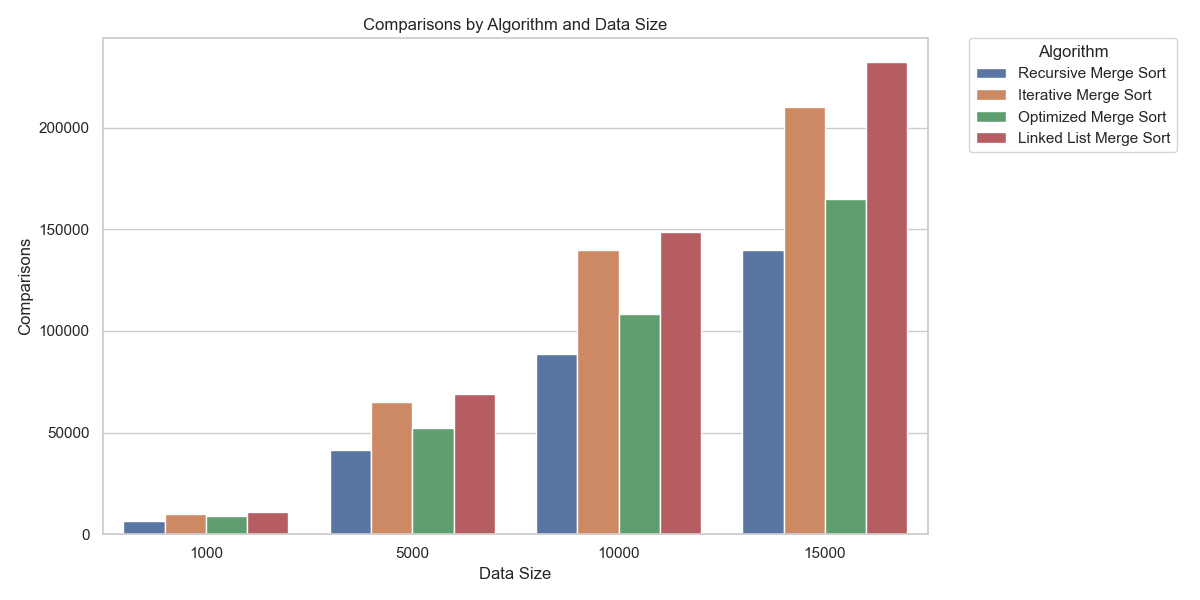
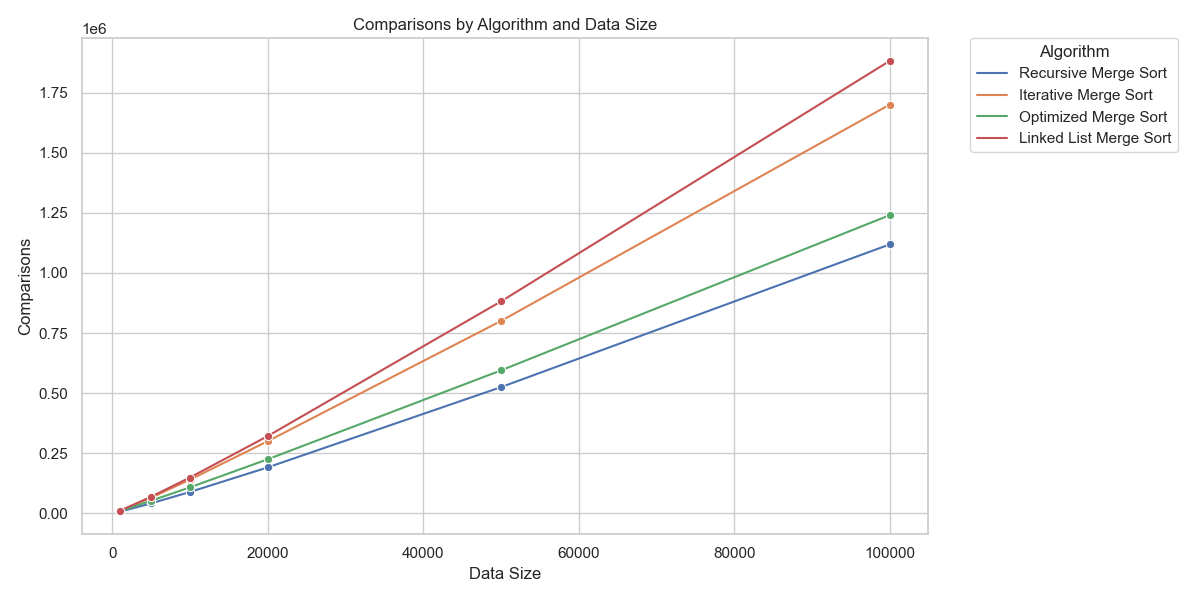
lab6: some changes to improve analysis results (done)

diff --git a/lab_6/main.py b/lab_6/main.py
@@ -10,7 +10,7 @@ def main():
     import time
     import tracemalloc
 
-    data_sizes = [1000, 5000, 10000, 15000]
+    data_sizes = [1000, 5000, 10000, 20000, 50000, 100000]
     data_types = ['random', 'sorted', 'reverse', 'nearly_sorted', 'few_unique']
     sorting_algorithms = {
         'Recursive Merge Sort': merge_sort_recursive,
@@ -39,6 +39,7 @@ def main():
             for algo_name, algo_func in sorting_algorithms.items():
                 metrics = PerformanceMetrics(store_sequence=False)
                 tracemalloc.start()
+                
                 start_time = time.perf_counter()
 
                 if algo_name == 'Linked List Merge Sort':
@@ -49,9 +50,8 @@ def main():
                     data_copy = data.copy()
                     sorted_data, metrics = algo_func(data_copy, metrics)
 
-                metrics.time_elapsed = time.perf_counter() - start_time
-                current, peak = tracemalloc.get_traced_memory()
-                metrics.memory_usage = peak
+                metrics.time_elapsed = time.perf_counter() - start_time               
+                metrics.measure_memory() 
                 tracemalloc.stop()
 
                 if sorted(sorted_data) != sorted_data:

diff --git a/lab_6/analysis.py b/lab_6/analysis.py
@@ -19,12 +19,13 @@ def plot_metrics(df):
 
     for metric in metrics:
         plt.figure(figsize=(12, 6))
-        sns.barplot(
+        sns.lineplot(
             x='Data Size',
             y=metric,
             hue='Algorithm',
             data=df,
-            errorbar=None 
+            marker='o',
+            errorbar= None 
         )
         plt.title(f'{metric} by Algorithm and Data Size')
         plt.xlabel('Data Size')

diff --git a/lab_6/merge_sort_optimized.py b/lab_6/merge_sort_optimized.py
@@ -21,7 +21,7 @@ def insertion_sort(arr, left, right, metrics):
         arr[j + 1] = key  # insert in the correct position
         metrics.copy_operations += 1
 
-def merge_sort_optimized(arr, metrics=None, cutoff=64):
+def merge_sort_optimized(arr, metrics=None, cutoff=15):
     
     if metrics is None:
         metrics = PerformanceMetrics()
